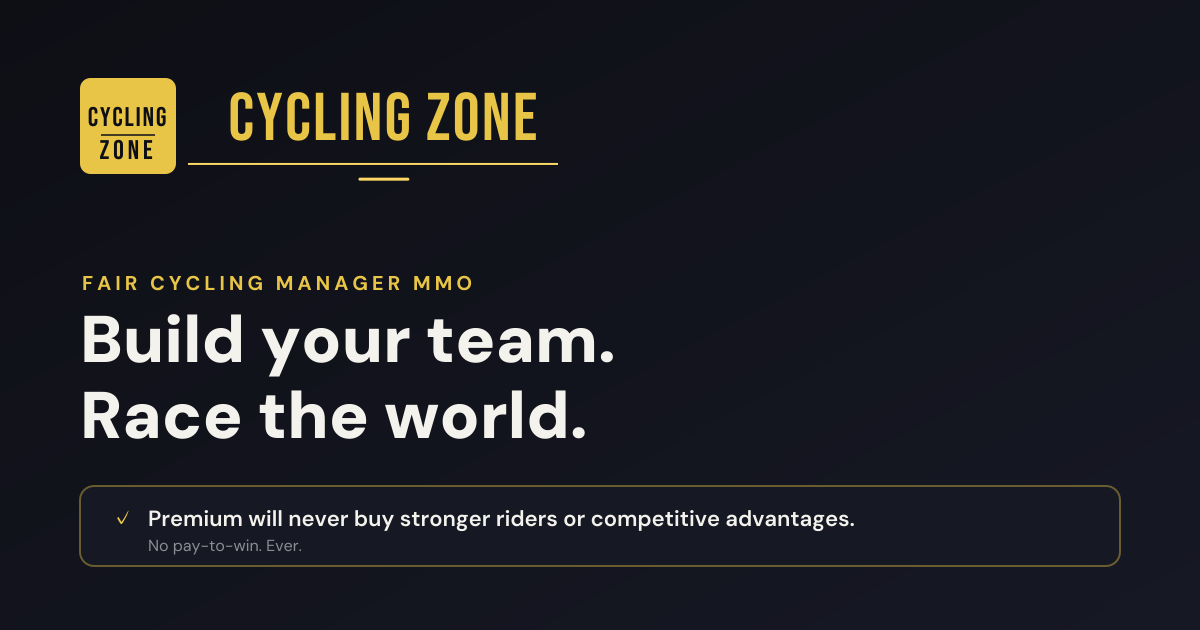
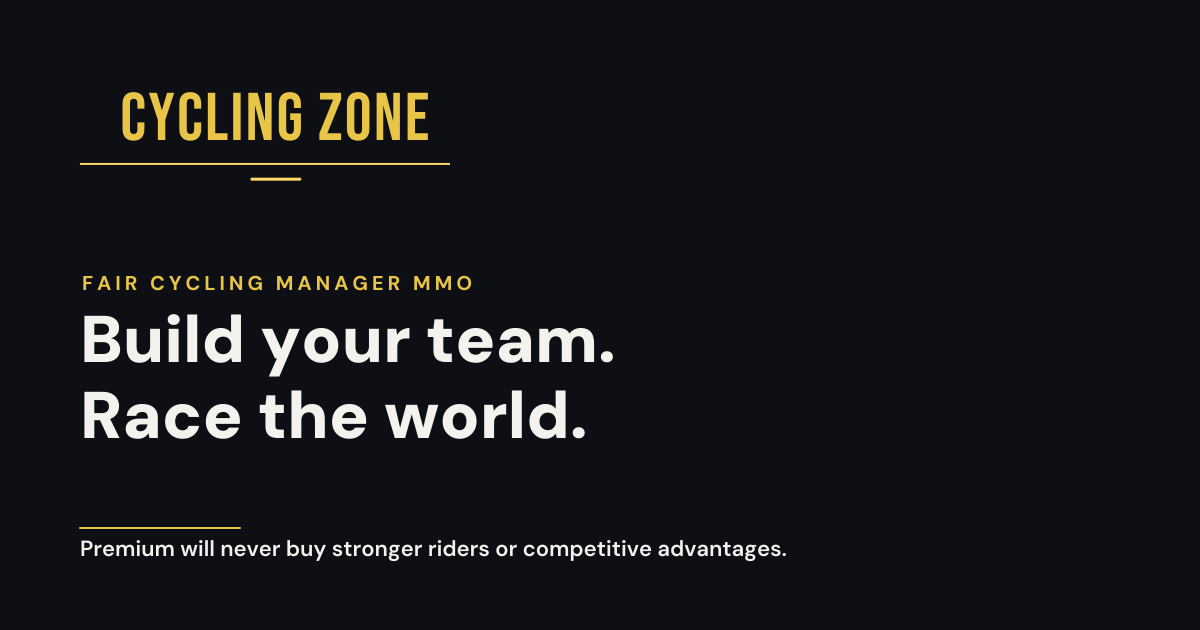
fix(brand): redesign OG til wordmark-first editorial (#481-F5)
Frisk gennemgang mod BRAND_BRIEF + GUIDELINES afdaekkede brud som
brand-asset-auditten missede:
- canvas-gradient -> fladt navy (BRAND_BRIEF 7.5: ingen gradienter)
- redundant dobbelt-navn (gul stacked-tile + Bebas-wordmark stod side
  om side) -> stacked-tile fjernet, wordmark-first (7.4)
- promise-strip var en omrandet feature-card med raa system-glyph (U+2713,
  eneste ikke-outlinede element) -> editorial guld-hairline + ét
  venstrejusteret fairness-statement
- slogan-dublering ("No pay-to-win. Ever." i off-token-graa #8b8d93) fjernet

SVG-master skrumpede 318 KB -> 126 KB (fjernede triplikeret usynlig
promise-prose). PNG regenereret via brand:export:og (1200x630, 45 KB).

Verificeret: 0 <text>/url(#)-rester, balanceret XML, rent fladt navy render.

Refs #481

diff --git a/docs/audits/2026-06-14-brand-asset-audit.md b/docs/audits/2026-06-14-brand-asset-audit.md
@@ -19,7 +19,8 @@
 
 - **F1 + F4 FIXED.** De to glow-blobs fjernet i `discord-banner.svg` + `og-cycling-zone.svg` (inkl. ubrugt `radialGradient#glow`-def); banner+OG canvas-gradient normaliseret til `#161824`. `discord-banner.png` regenereret (960×540, sharp). OG'en er SVG → SVG-edit'en er selve fixet (ingen raster at regenerere). Verificeret visuelt (rent, fladt navy) + XML-velformet + 0 `url(#glow)`-rester.
 - **F2/F3 udskudt** (post-launch polish, ingen synlig effekt).
-- **F5 FIXED** (2026-06-14, egen PR efter PR #1389): OG-rasteren `frontend/public/og-cycling-zone.png` (1200×630, flad opaque, ingen alpha) eksporteres deterministisk fra den rene outlined SVG-master via `npm run brand:export:og` (sharp, `density:200` supersample + `.flatten('#0e0f15')`). `index.html` peger nu `og:image` + `twitter:image` på PNG'en med `og:image:type image/png` (+ ny `og:image:alt`); SVG'en er ikke længere refereret som og:image (ét entydigt raster så scrapers ikke kan plukke den ikke-understøttede form). Verificeret visuelt: rent navy canvas, stacked mark + wordmark + tagline + promise-band, ingen glow-blobs. Eksport-pipelinen lever i `scripts/brand-export.mjs` (`exportOg()` + `og`-subkommando).
+- **F5 FIXED** (2026-06-14, egen PR efter PR #1389): OG-rasteren `frontend/public/og-cycling-zone.png` (1200×630, flad opaque, ingen alpha) eksporteres deterministisk fra den outlined SVG-master via `npm run brand:export:og` (sharp, `density:200` supersample + `.flatten('#0e0f15')`). `index.html` peger nu `og:image` + `twitter:image` på PNG'en med `og:image:type image/png` (+ ny `og:image:alt`); SVG'en er ikke længere refereret som og:image (ét entydigt raster så scrapers ikke kan plukke den ikke-understøttede form). Eksport-pipelinen lever i `scripts/brand-export.mjs` (`exportOg()` + `og`-subkommando).
+- **OG-billedet REDESIGNET** (2026-06-14, samme PR): en frisk gennemgang mod `BRAND_BRIEF.md` + `GUIDELINES.md` afdækkede brud denne audit oprindeligt missede (rapporten roste OG'en som "stærkt redaktionelt" — det var for generøst). Rettet: **(a)** canvas-gradient `#0e0f15→#161824` → fladt navy (`BRAND_BRIEF §7.5`/`GUIDELINES §5`: ingen gradienter); **(b)** redundant dobbelt-navn — den gule stacked-tile (`CYCLING`/`ZONE`) + Bebas-wordmarken (`CYCLING ZONE`) stod side om side → stacked-tile fjernet, wordmark-first (`§7.4`); **(c)** promise-strippen var en omrandet "feature-card" med afrundede hjørner + et rå system-`✓` (U+2713, eneste ikke-outlinede element) → erstattet af en editorial guld-hairline + ét venstrejusteret fairness-statement; **(d)** slogan-dublering ("No pay-to-win. Ever." i off-token-grå `#8b8d93`) fjernet. Bonus: SVG-masteren skrumpede 318 KB → 126 KB (fjernede triplikeret usynlig promise-prose). Verificeret visuelt (rent fladt navy, wordmark margin-aligned, ingen box/glow/systemglyph) + 0 `<text>`/`url(#)`-rester + balanceret XML.
 
 ---
 
@@ -30,7 +31,7 @@
 - **Farve-disciplin.** Marks bruger kun låst palette: navy `#0e0f15`, gold `#e8c547`, bright-gold lines `#ffd966`, deep-gold on-light `#a07800`, white `#ffffff`. Light-varianten er korrekt WCAG-sikker (navy tekst + deep-gold linjer — bright gold ville fejle AA som forgrund på light).
 - **Komplet variant-matrix.** on-dark / on-light / on-yellow / mono-black / mono-white / dark-bg → dækker alle 5 `BRAND_BRIEF` §5-kombinationer.
 - **Korrekt wiring.** `favicon.svg` er bit-identisk med `monogram-cz.svg` (browser-tab = small-form). Avatars er full-bleed gold (ingen transparente hjørner → cirkulær crop afslører aldrig et hul).
-- **OG-billedet er stærkt redaktionelt.** Klar fairness-promise ("Premium will never buy stronger riders…"), ægte tone, on-brand typografi-hierarki. Ingen "free forever"-formulering.
+- **OG-billedet er stærkt redaktionelt.** Klar fairness-promise ("Premium will never buy stronger riders…"), ægte tone, on-brand typografi-hierarki. Ingen "free forever"-formulering. _(Korrektion 2026-06-14: denne ros var for generøs — en frisk gennemgang fandt en canvas-gradient, redundant dobbelt-navn og en card-box med system-`✓`. OG'en blev redesignet. Se "Udført"-sektionen + F5-rækken.)_
 
 ---
 

diff --git a/docs/brand/ASSETS.md b/docs/brand/ASSETS.md
@@ -59,7 +59,7 @@ The generator script (`gen_brand.py`) is kept out of the repo (throwaway tooling
 
 ## Brand-asset-audit 2026-06-14 (#481)
 
-Full audit of the produced set against the anti-slop standard + the locked #671 token foundation: [`docs/audits/2026-06-14-brand-asset-audit.md`](../audits/2026-06-14-brand-asset-audit.md). Verdict: disciplined, slop-free marks. Owner-approved fix applied: the two decorative gradient-glow **blobs were removed** from `discord-banner.svg` + `og-cycling-zone.svg` (generic SaaS-hero pattern, off the editorial line); canvas-gradient normalized to `#161824`; `discord-banner.png` regenerated. **F5 FIXED (2026-06-14):** the OG image was served as SVG (`og:image:type image/svg+xml`) with no raster — most social scrapers (Facebook, LinkedIn, X/Twitter) don't render SVG `og:image`, so link previews were likely broken. A `frontend/public/og-cycling-zone.png` (1200×630, flat opaque) is now rasterized from the cleaned outlined master via `npm run brand:export:og`, and `og:image` + `twitter:image` point at it (`og:image:type image/png`). The SVG is no longer referenced as an og:image (a single unambiguous raster avoids scrapers picking the unsupported form).
+Full audit of the produced set against the anti-slop standard + the locked #671 token foundation: [`docs/audits/2026-06-14-brand-asset-audit.md`](../audits/2026-06-14-brand-asset-audit.md). Verdict: disciplined, slop-free marks. Owner-approved fix applied: the two decorative gradient-glow **blobs were removed** from `discord-banner.svg` + `og-cycling-zone.svg` (generic SaaS-hero pattern, off the editorial line); canvas-gradient normalized to `#161824`; `discord-banner.png` regenerated. **F5 FIXED (2026-06-14):** the OG image was served as SVG (`og:image:type image/svg+xml`) with no raster — most social scrapers (Facebook, LinkedIn, X/Twitter) don't render SVG `og:image`, so link previews were likely broken. A `frontend/public/og-cycling-zone.png` (1200×630, flat opaque) is now rasterized from the outlined master via `npm run brand:export:og`, and `og:image` + `twitter:image` point at it (`og:image:type image/png`). The SVG is no longer referenced as an og:image (a single unambiguous raster avoids scrapers picking the unsupported form). **The OG master was also redesigned** in the same pass: a fresh check against `BRAND_BRIEF.md` + this guideline doc surfaced breaches the audit missed — a canvas gradient (§7.5 forbids gradients), a redundant stacked-tile next to the wordmark (the name appeared twice; §7.4 is wordmark-first), and a boxed "feature-card" promise strip with a raw system `✓`. The redesign is flat navy, wordmark-first, with an editorial gold hairline + a single left-aligned fairness line instead of the box. Master shrank 318 KB → 126 KB (removed triplicated invisible prose).
 
 ## Follow-ups (not in this slice)
 